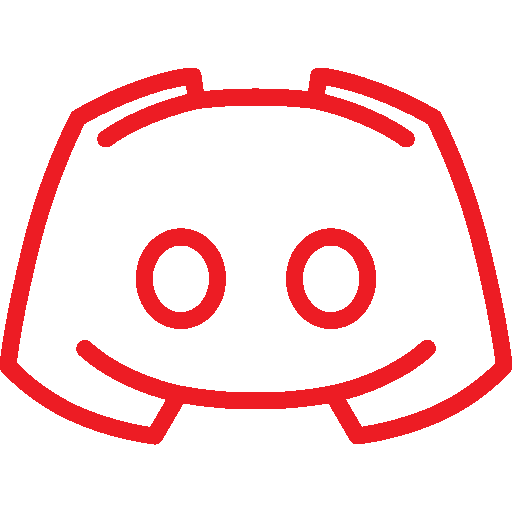
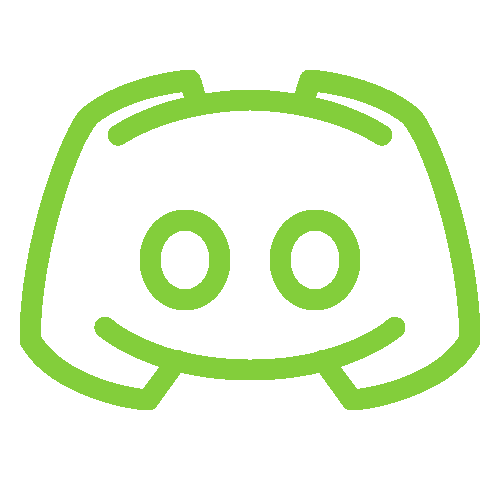
- Black images for the sponsor social media links - Resized hall of fame images to be same size - Divisions header to be Our Divisions

Changed region(s): [[0.0, 0.12, 1.0, 0.87], [0.24, 0.42, 0.48, 0.66], [0.54, 0.42, 0.75, 0.66]]

diff --git a/index2.html b/index2.html
@@ -92,9 +92,9 @@
                               <p class="margin-bottom-10">KreekandClash is a Clash Of Clans streamer. Always bringing fun content and new concepts, he decided to give the Global Clash Cup a shot and sponsor the league.</p>
                               <div class="s-12 1-4">
                                   <div class="s-5 m-5 1-5">
-                                      <div class="right">
+                                      <div class="right margin-right-10">
                                           <a href="https://discord.gg/Apt28Xk" target="_blank">
-                                              <img src="img/discord_48px.png" alt="Discord" title="Follow KreekandClash on Discord" />
+                                              <img class="img-48" src="img/discordoutline_black.png" alt="Discord" title="Follow KreekandClash on Discord" />
                                           </a>
                                       </div>
                                   </div>
@@ -102,7 +102,7 @@
                                   <div class="s-2 m-2 1-2">
                                       <div class="">
                                           <a href="https://twitter.com/kreekandclash" target="_blank">
-                                              <img src="img/twitter-48.png" alt="Twitter" title="Follow KreekandClash on Twitter" />
+                                              <img class="img-48 margin-right-10" src="img/twitteroutline_black.png" alt="Twitter" title="Follow KreekandClash on Twitter" />
                                           </a>
                                       </div>
                                   </div>
@@ -110,7 +110,7 @@
                                   <div class="s-5 m-5 1-5 ">
                                       <div>
                                           <a href="https://twitch.tv/KreekandClash" target="_blank">
-                                              <img src="img/twitch_48.png" alt="Twitch" title="Follow KreekandClash on Twitch" />
+                                              <img src="img/twitch_outline.png" alt="Twitch" title="Follow KreekandClash on Twitch" />
                                           </a>
                                       </div>
                                   </div>
@@ -125,7 +125,7 @@
                               <div class="s-6 m-6 1-6">
                                   <div class="right">
                                       <a href="https://discord.gg/DM8mSqN" target="_blank">
-                                          <img class="center" src="img/discord_48px.png" alt="Discord" title="Follow Agam on Discord" />
+                                          <img class="img-48 center margin-right-10" src="img/discordoutline_black.png" alt="Discord" title="Follow Agam on Discord" />
                                       </a>
                                   </div>
                               </div>
@@ -133,7 +133,7 @@
                               <div class="s-2 m-2 1-2">
                                   <div class="">
                                       <a href="https://twitter.com/Team_iBuild?s=09" target="_blank">
-                                          <img src="img/twitter-48.png" alt="Twitter" title="Follow Agam on Twitter" />
+                                          <img class="img-48" src="img/twitteroutline_black.png" alt="Twitter" title="Follow Agam on Twitter" />
                                       </a>
                                   </div>
                               </div>
@@ -147,7 +147,7 @@
                               <div class="s-6 m-6 1-6">
                                   <div class="right">
                                       <a href="https://discord.gg/DM8mSqN" target="_blank">
-                                          <img class="center" src="img/discord_48px.png" alt="Discord" title="Follow iBuild on Discord" />
+                                          <img class="center img-48 margin-right-10" src="img/discordoutline_black.png" alt="Discord" title="Follow iBuild on Discord" />
                                       </a>
                                   </div>
                               </div>
@@ -155,7 +155,7 @@
                               <div class="s-2 m-2 1-2">
                                   <div class="">
                                       <a href="https://twitter.com/Team_iBuild?s=09" target="_blank">
-                                          <img src="img/twitter-48.png" alt="Twitter" title="Follow iBuild on Twitter" />
+                                          <img class="img-48" src="img/twitteroutline_black.png" alt="Twitter" title="Follow iBuild on Twitter" />
                                       </a>
                                   </div>
                               </div>

diff --git a/halloffame.html b/halloffame.html
@@ -66,14 +66,14 @@
                               <h2 class="margin-bottom-10 text-size-25 text-center">Last season - Season 2</h2>
                           </div>
                           <div class="margin">
-                              <div class="s-12 m-12 l-3 margin-m-bottom ">
+                              <div class="s-12 m-12 l-4 margin-m-bottom ">
                                   <div>
-                                      <img class="margin-s-top-10" style="margin-left: auto; margin-right: auto;" src="img/HallofFame/2-Weeks-2-1-1.png" alt="">
+                                      <img class="margin-s-top-10" style="margin-left: auto; margin-right: auto;" src="img/HallofFame/2-Weeks-2-1-1_300.png" alt="">
                                   </div>
                               </div>
-                              <div class="s-12 m-12 l-3 margin-m-bottom">
+                              <div class="s-12 m-12 l-4 margin-m-bottom">
                                   <div>
-                                      <img class="margin-s-top-10" style="margin-left: auto; margin-right: auto;" src="img/HallofFame/speed-trophy-season2.png" alt="">
+                                      <img class="margin-s-top-10" style="margin-left: auto; margin-right: auto;" src="img/HallofFame/speed-trophy-season2_300.png" alt="">
                                   </div>
                               </div>
                           </div>
@@ -83,12 +83,12 @@
                               <div>
                                   <h2 class="margin-bottom-10 text-size-25 text-center">Season 1</h2>
                               </div>
-                              <div class="s-12 m-12 l-3 margin-m-bottom">
+                              <div class="s-12 m-12 l-4 margin-m-bottom">
                                   <div>
-                                      <img class="margin-s-top-10" style="margin-left: auto; margin-right: auto;" src="img/HallofFame/Season1_Trophy_The_North_Watch.png" alt="">
+                                      <img class="margin-s-top-10" style="margin-left: auto; margin-right: auto;" src="img/HallofFame/Season1_Trophy_The_North_Watch_300.png" alt="">
                                   </div>
                               </div>
-                              <div class="s-12 m-12 l-3 margin-m-bottom">
+                              <!--<div class="s-12 m-12 l-3 margin-m-bottom">
                                   <div>
                                       <img class="margin-s-top-10" style="margin-left: auto; margin-right: auto;" src="img/HallofFame/Season1_2nd_Trophy_Phantom.png" alt="">
                                   </div>
@@ -97,7 +97,7 @@
                                   <div>
                                       <img class="margin-s-top-10" style="margin-left: auto; margin-right: auto;" src="img/HallofFame/Season1_3rd_Trophy_METAMinds.png" alt="">
                                   </div>
-                              </div>
+                              </div>-->
                           </div>
                       </div>
               </section>

diff --git a/divisions.html b/divisions.html
@@ -3,7 +3,7 @@
   <head>
     <meta charset="UTF-8">
     <meta name="viewport" content="width=device-width, initial-scale=1.0" />
-    <title>Global Clash Cup - League Divisions</title>
+    <title>Global Clash Cup - Divisions</title>
     <link rel="stylesheet" href="css/components.css">
     <link rel="stylesheet" href="css/icons.css">
     <link rel="stylesheet" href="css/responsee.css">
@@ -56,7 +56,7 @@
               <section class="section background-white">
                   <div class="line margin-bottom-20">
 
-                      <h2 class="text-size-40 margin-bottom-30">League divisions</h2>
+                      <h2 class="text-size-40 margin-bottom-30">Our Divisions</h2>
                       <hr class="break-small background-primary margin-bottom-30">
                   </div>
                   <div class="line margin-bottom-10">

diff --git a/css/template-style.css b/css/template-style.css
@@ -2116,6 +2116,6 @@ footer img {
     margin: 5px;
 }
 .img-48 {
-    width: 49px;
+    width: 48px;
     height: 48px;
 }
